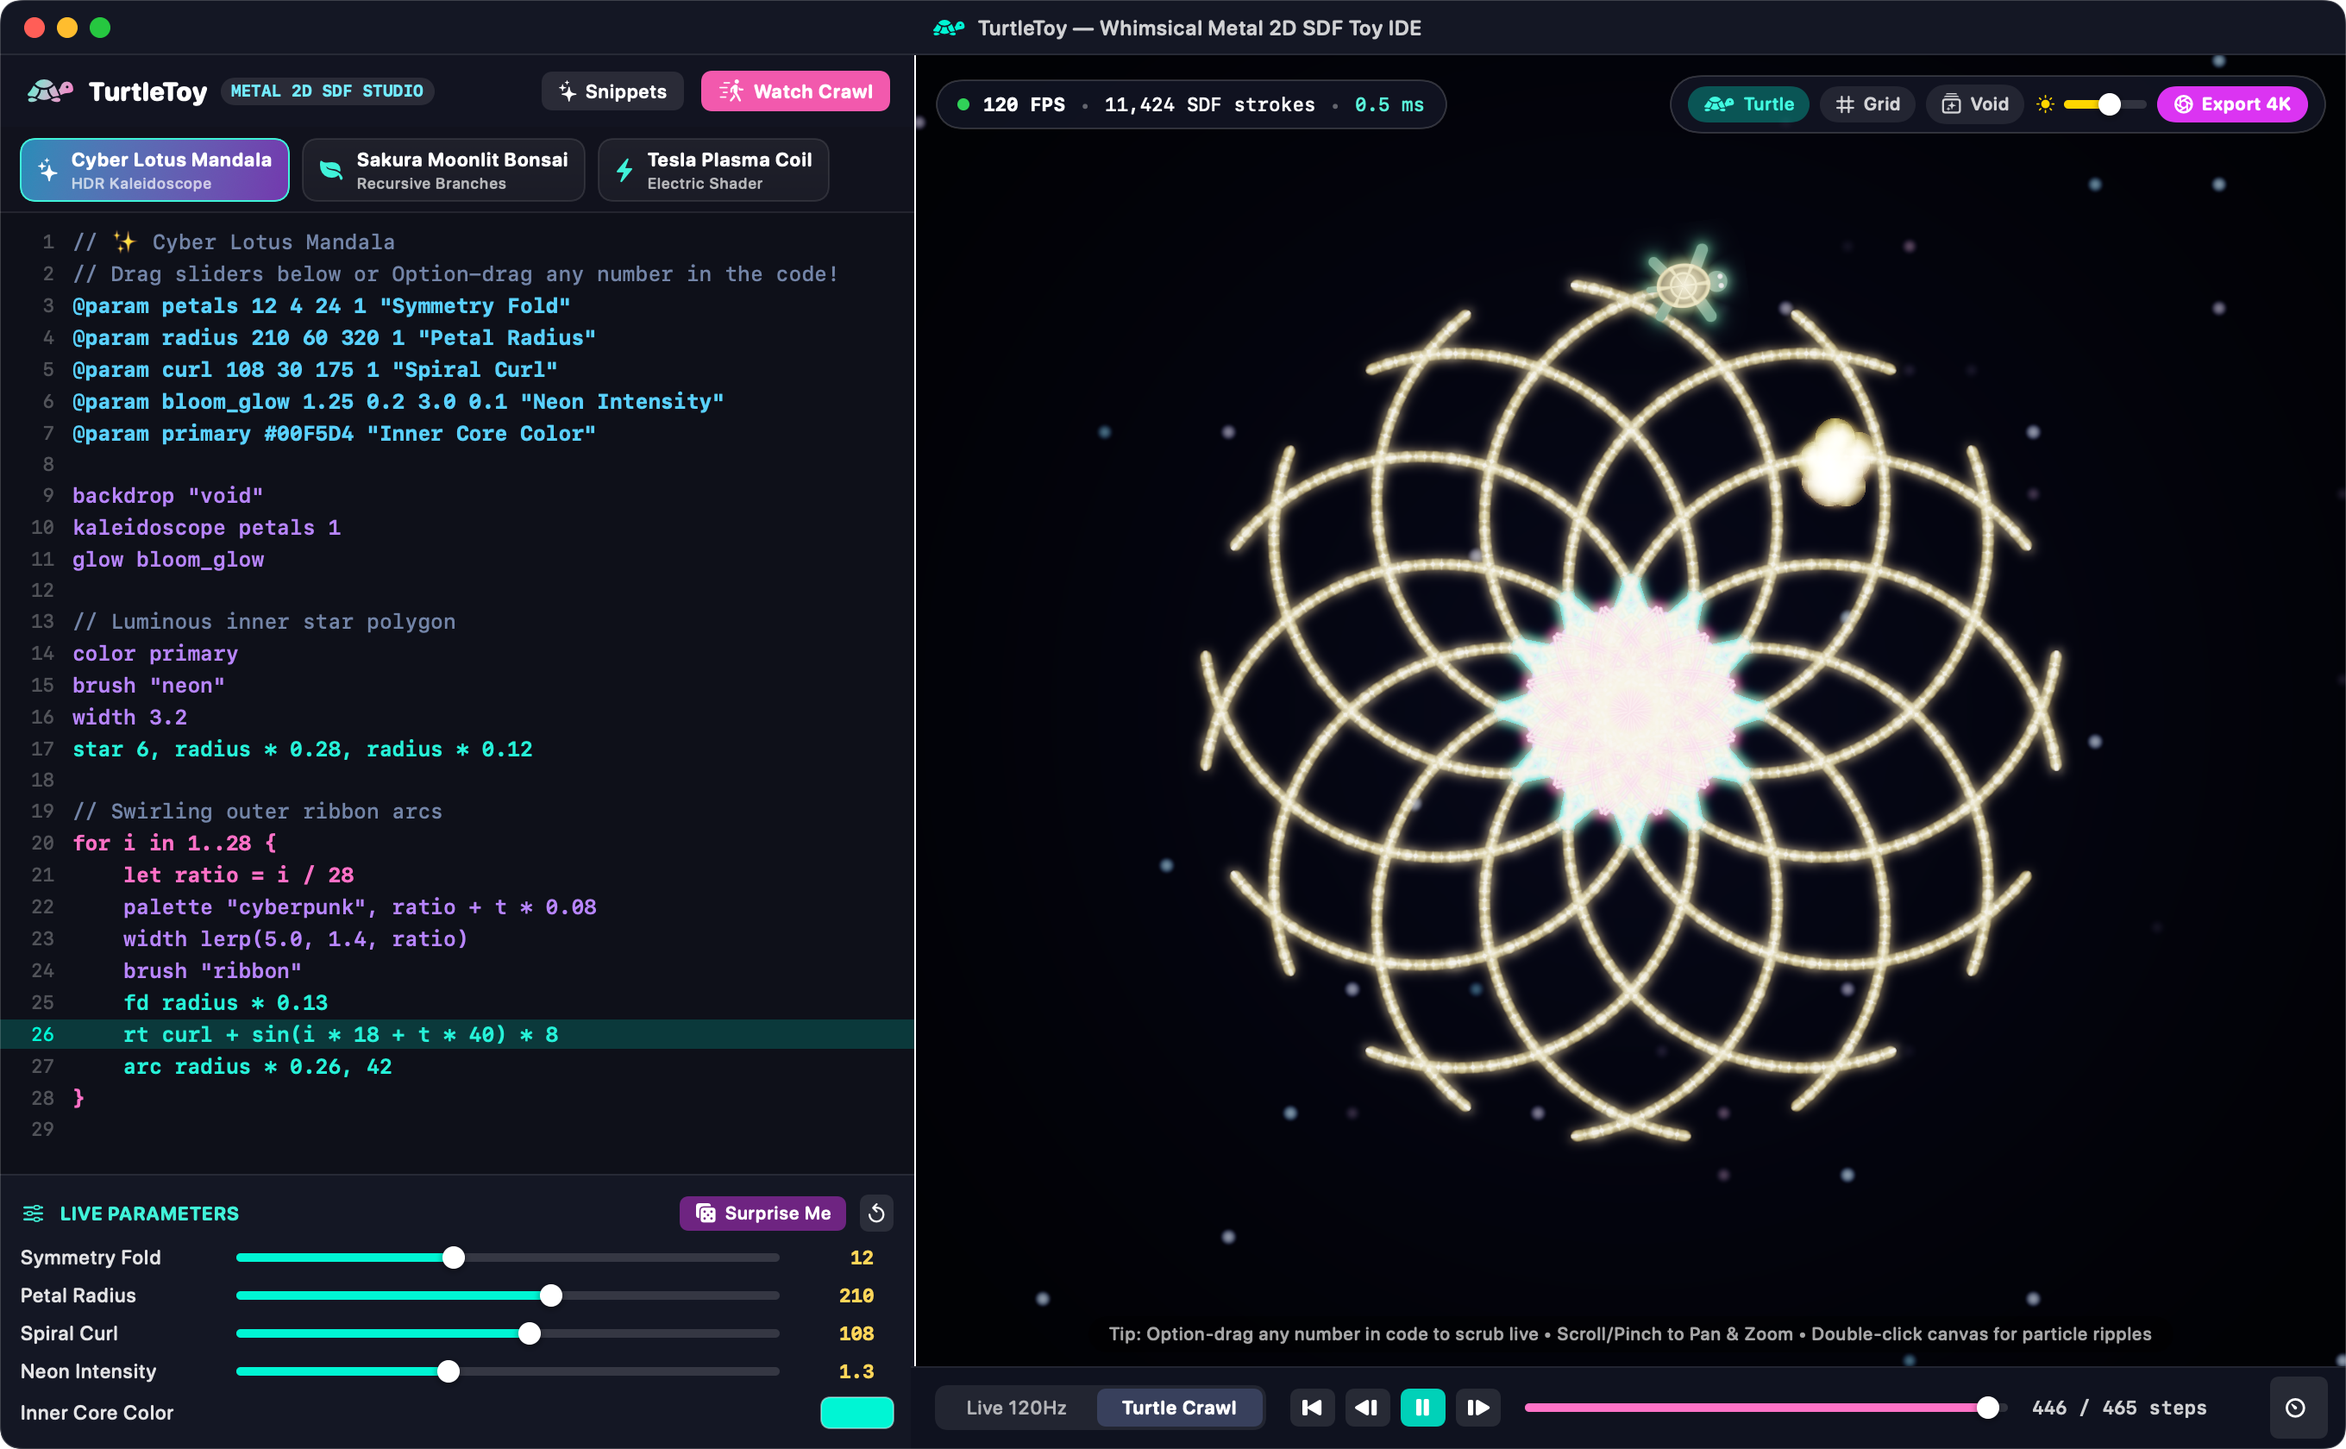
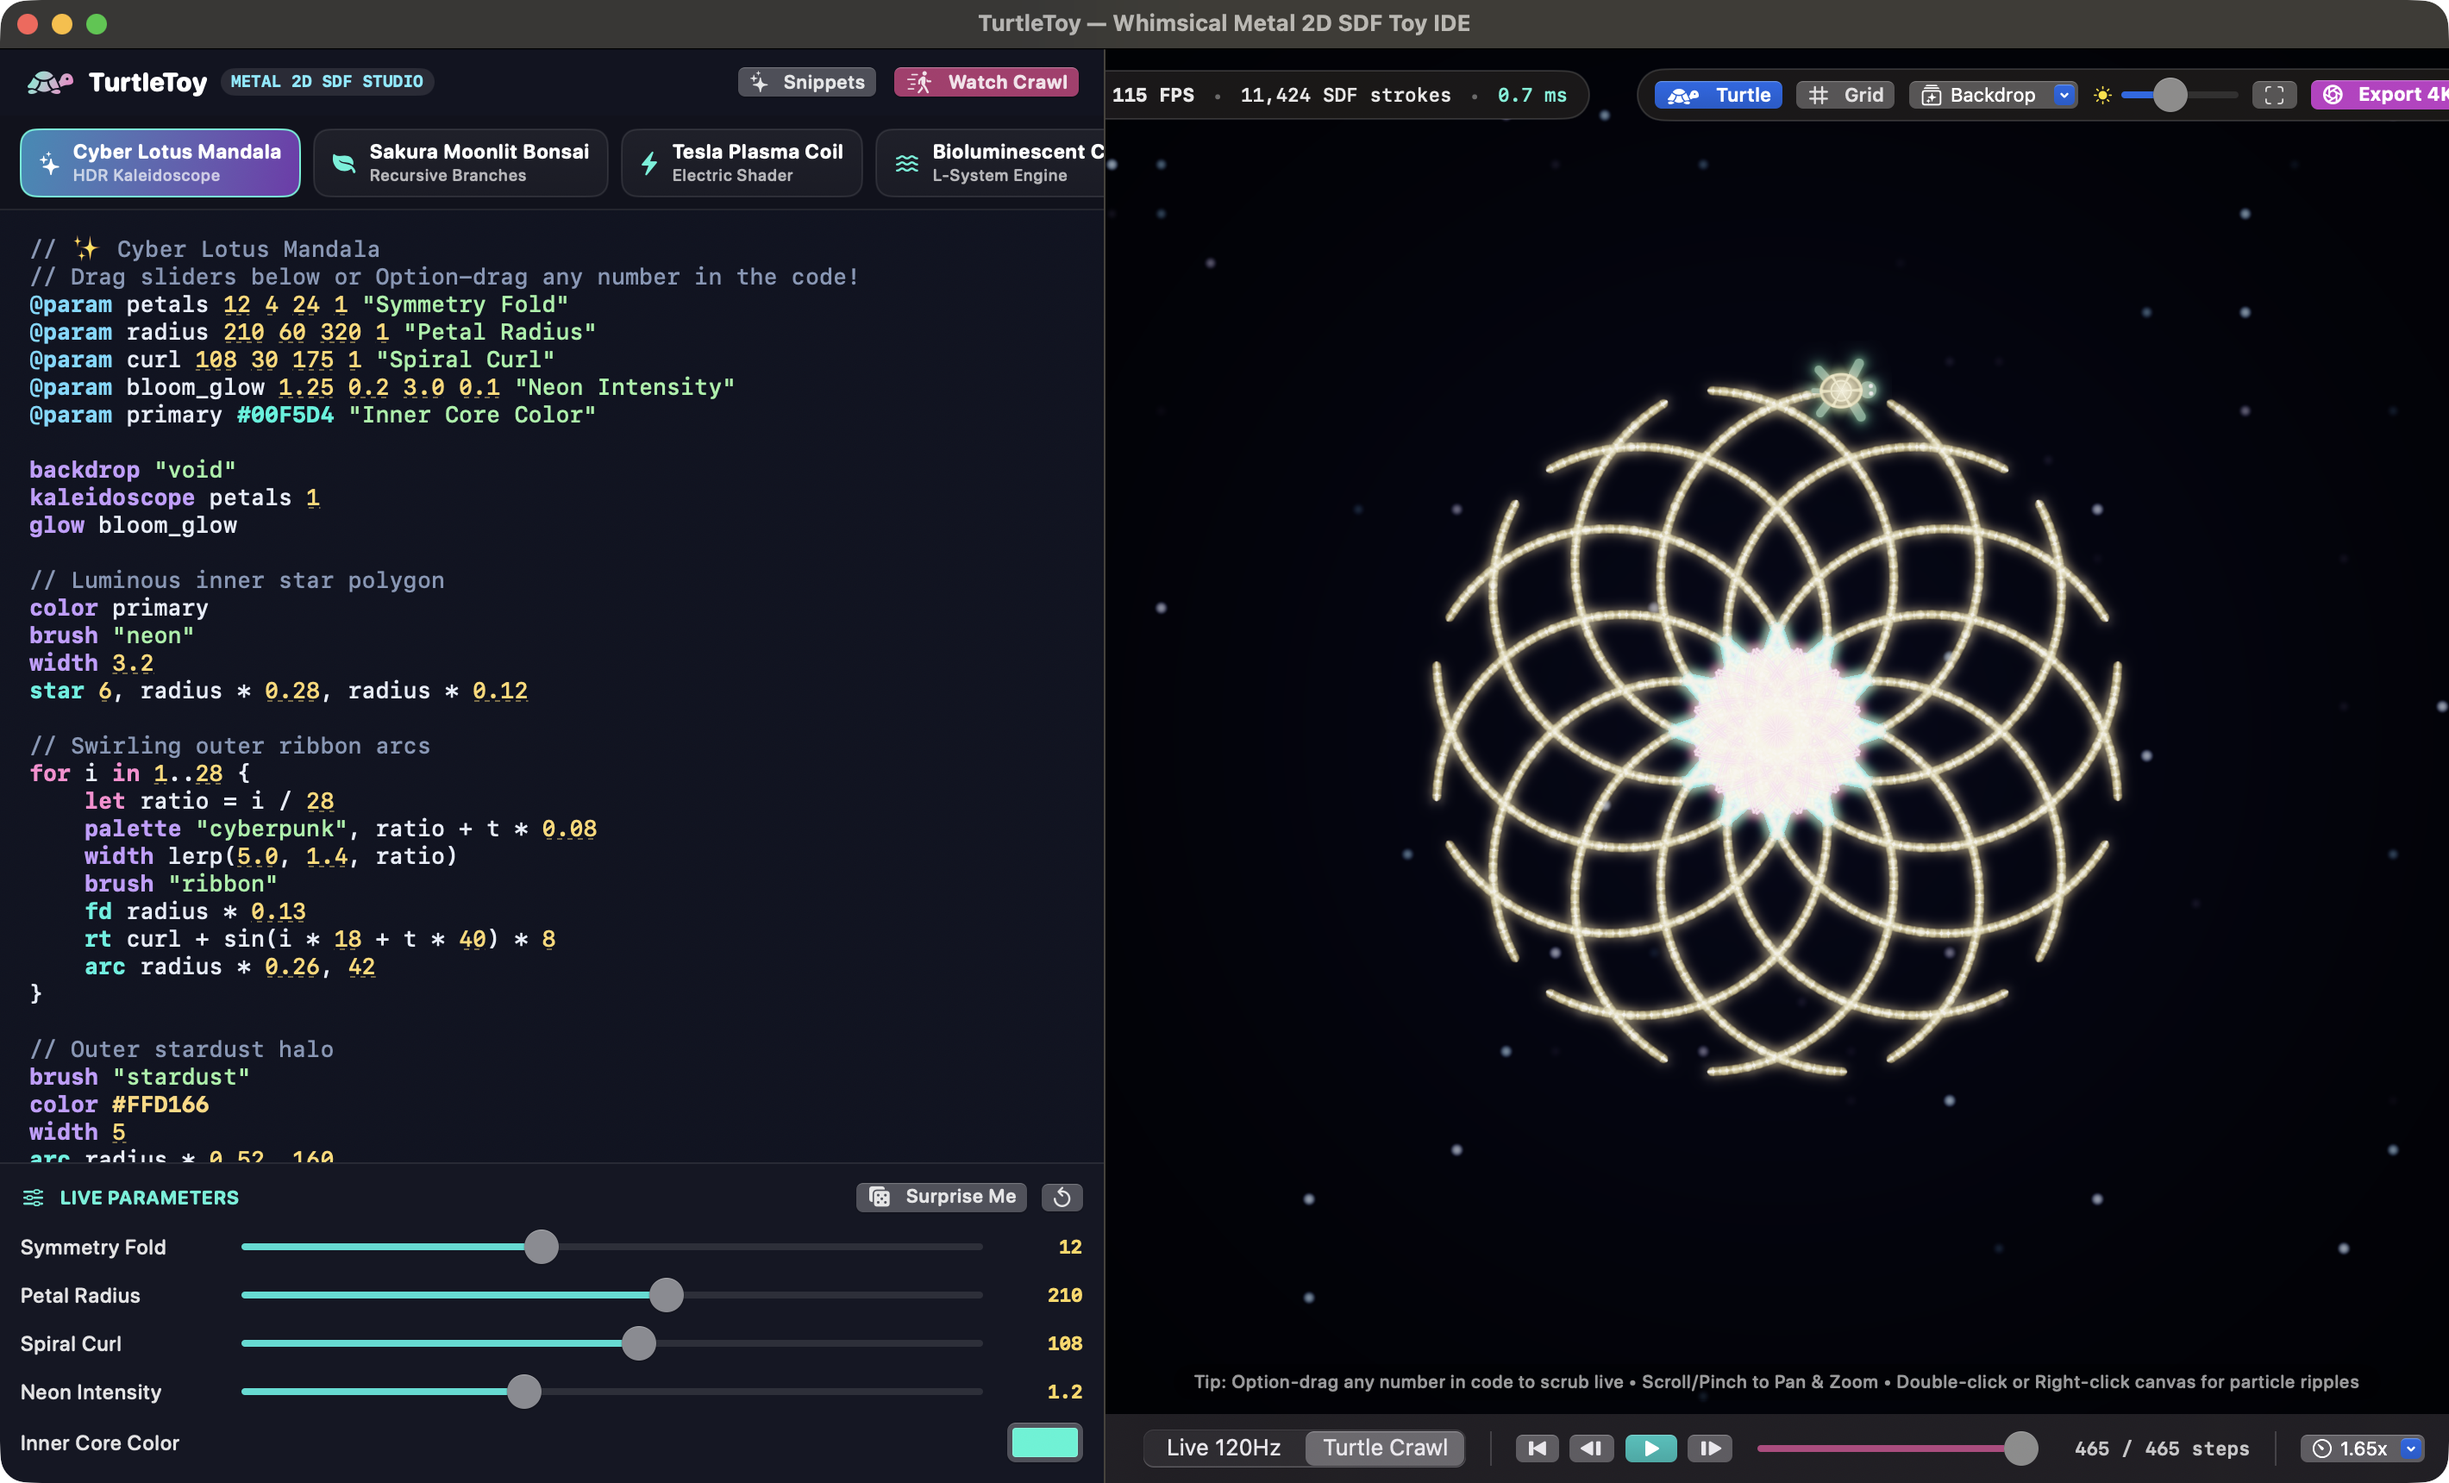
Update README screenshot and GIF with real native macOS window capture

Changed region(s): [[0.0, 0.0, 1.0, 1.0], [0.5, 0.1548, 0.9062, 0.8048], [0.2188, 0.5571, 0.25, 0.5881]]

diff --git a/Sources/TurtleToy/TurtleToyApp.swift b/Sources/TurtleToy/TurtleToyApp.swift
@@ -671,6 +671,56 @@ public final class AppDelegate: NSObject, NSApplicationDelegate {
         NSApp.activate(ignoringOtherApps: true)
 
         let args = CommandLine.arguments
+        if let idx = args.firstIndex(of: "--screencapture-window"), idx + 1 < args.count {
+            let outPath = args[idx + 1]
+            let framesDir: String? = {
+                if let fIdx = args.firstIndex(of: "--screencapture-frames"), fIdx + 1 < args.count {
+                    return args[fIdx + 1]
+                }
+                return nil
+            }()
+
+            DispatchQueue.main.asyncAfter(deadline: .now() + 0.8) {
+                guard let window = NSApp.windows.first(where: { $0.isVisible && $0.frame.width > 400 }) ?? NSApp.windows.first else {
+                    exit(1)
+                }
+                window.setContentSize(NSSize(width: 1420, height: 860))
+                window.center()
+                window.makeKeyAndOrderFront(nil)
+                NSApp.activate(ignoringOtherApps: true)
+                let winID = window.windowNumber
+
+                if let dir = framesDir {
+                    try? FileManager.default.createDirectory(atPath: dir, withIntermediateDirectories: true)
+                    Task { @MainActor in
+                        for f in 0..<42 {
+                            let frameFile = (dir as NSString).appendingPathComponent(String(format: "win_%03d.png", f))
+                            let proc = Process()
+                            proc.executableURL = URL(fileURLWithPath: "/usr/sbin/screencapture")
+                            proc.arguments = ["-x", "-o", "-l", "\(winID)", frameFile]
+                            try? proc.run()
+                            proc.waitUntilExit()
+                            if f == 34 {
+                                try? FileManager.default.removeItem(atPath: outPath)
+                                try? FileManager.default.copyItem(atPath: frameFile, toPath: outPath)
+                            }
+                            try? await Task.sleep(nanoseconds: 65_000_000)
+                        }
+                        exit(0)
+                    }
+                } else {
+                    DispatchQueue.main.asyncAfter(deadline: .now() + 2.2) {
+                        let proc = Process()
+                        proc.executableURL = URL(fileURLWithPath: "/usr/sbin/screencapture")
+                        proc.arguments = ["-x", "-o", "-l", "\(winID)", outPath]
+                        try? proc.run()
+                        proc.waitUntilExit()
+                        exit(0)
+                    }
+                }
+            }
+            return
+        }
         if let idx = args.firstIndex(of: "--capture-ide-screenshot"), idx + 1 < args.count {
             let outPath = args[idx + 1]
             let viewModel = IDEViewModel()

diff --git a/Sources/TurtleToy/IDEPanels.swift b/Sources/TurtleToy/IDEPanels.swift
@@ -264,6 +264,7 @@ public struct CanvasHUDView: View {
                         .font(.system(size: 11, weight: .medium, design: .monospaced))
                         .foregroundStyle(Color(red: 0.35, green: 0.95, blue: 0.85))
                 }
+                .fixedSize()
                 .padding(.horizontal, 12)
                 .padding(.vertical, 6)
                 .background(.ultraThinMaterial, in: Capsule())
@@ -276,6 +277,7 @@ public struct CanvasHUDView: View {
                     Toggle(isOn: $viewModel.showTurtleAvatar) {
                         Label("Turtle", systemImage: "tortoise.fill")
                             .font(.system(size: 11, weight: .semibold))
+                            .fixedSize()
                     }
                     .toggleStyle(.button)
                     .controlSize(.small)
@@ -283,6 +285,7 @@ public struct CanvasHUDView: View {
                     Toggle(isOn: $viewModel.showGrid) {
                         Label("Grid", systemImage: "grid")
                             .font(.system(size: 11, weight: .semibold))
+                            .fixedSize()
                     }
                     .toggleStyle(.button)
                     .controlSize(.small)
@@ -323,11 +326,13 @@ public struct CanvasHUDView: View {
                     Button(action: { viewModel.exportHighResArtwork() }) {
                         Label("Export 4K", systemImage: "camera.aperture")
                             .font(.system(size: 11, weight: .bold))
+                            .fixedSize()
                     }
                     .buttonStyle(.borderedProminent)
                     .tint(.purple)
                     .controlSize(.small)
                 }
+                .fixedSize()
                 .padding(.horizontal, 10)
                 .padding(.vertical, 5)
                 .background(.ultraThinMaterial, in: Capsule())

diff --git a/Sources/TurtleToy/IDEViewModel.swift b/Sources/TurtleToy/IDEViewModel.swift
@@ -75,6 +75,11 @@ public final class IDEViewModel: ObservableObject {
         self.renderer = MetalRenderer()
         setupRendererCallbacks()
         compileProgram(resetAnimationIfNeeded: true)
+
+        if CommandLine.arguments.contains("--auto-crawl") {
+            self.playbackSpeed = 1.65
+            self.startAnimatedCrawl()
+        }
     }
 
     private func setupRendererCallbacks() {
